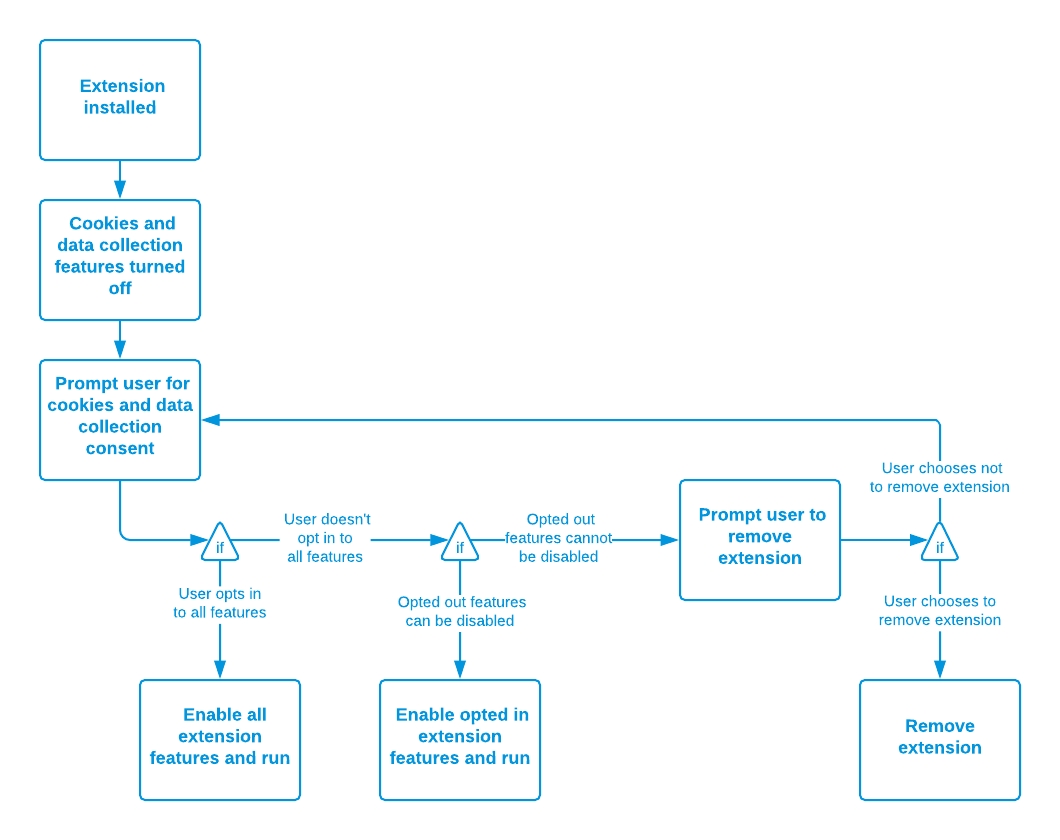
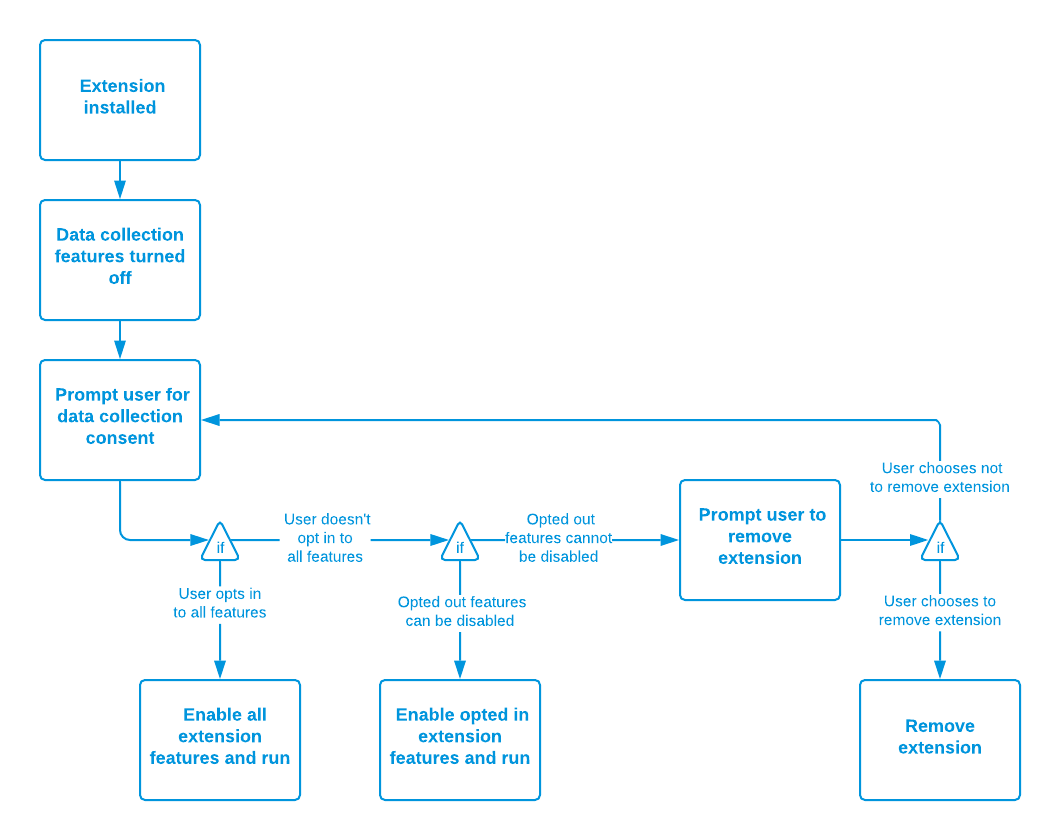
Update best practices page for policy changes (#1139)

Changed region(s): [[0.0311, 0.4333, 0.1868, 0.5571], [0.0311, 0.2476, 0.1868, 0.3714], [0.8717, 0.619, 0.9028, 0.65]]

diff --git a/src/content/documentation/develop/best-practices-for-collecting-user-data-consents.md b/src/content/documentation/develop/best-practices-for-collecting-user-data-consents.md
@@ -6,8 +6,8 @@ topic: Develop
 tags:
   [add-ons, extensions, how-to, privacy, ui, user-interface, ux, webextensions]
 contributors: [rebloor]
-last_updated_by: rebloor
-date: 2019-04-24 14:35:04
+last_updated_by: kewisch
+date: 2021-12-01
 ---
 
 <!-- Page Hero Banner -->
@@ -16,13 +16,13 @@ date: 2019-04-24 14:35:04
 
 # Prompt users for data and privacy consents
 
-If your extension uses cookies or collects user data, it needs to comply with the requirement of the [Data Disclosure, Collection and Management](/documentation/publish/add-on-policies/#data-disclosure-collection-and-management) section of the [Add-on Policies](/documentation/publish/add-on-policies/).
+If your extension collects user data, it needs to comply with the requirement of the [Data Disclosure, Collection and Management](/documentation/publish/add-on-policies/#data-disclosure-collection-and-management) section of the [Add-on Policies](/documentation/publish/add-on-policies/).
 
-A common developer question about these policies is how to translate them into web extension features that can pass the addons.mozilla.org reviews. This how-to is the result of those requests and offers advice on implementing prompts to meet the data collection and add-on policies. This article suggests how you can implement suitable prompts but it doesn’t replace or supersede the policies; you still need to confirm that your extension complies with the policies.
+A common developer question about these policies is how to translate them into browser extension features that are compliant to [Mozilla’s Add-on policies](/documentation/publish/add-on-policies/). This how-to is the result of those requests and offers advice on implementing prompts to meet the data collection and add-on policies. This article suggests how you can implement suitable prompts but it doesn’t replace or supersede the policies; you still need to confirm that your extension complies with the policies.
 
 {% endcapture %}
 {% include modules/page-hero.liquid
-	content: page_hero_banner_content
+    content: page_hero_banner_content
 %}
 
 <!-- END: Page Hero Banner -->
@@ -33,11 +33,13 @@ A common developer question about these policies is how to translate them into w
 
 ## Know your privacy settings
 
-To create the consent flow and consent dialogues your extension needs, you should first answer these questions:
+To create the consent flow and consent dialogs your extension needs, you should first answer these questions:
 
-1. Does my extension use cookies?  If so, you’ll need to get user consent to store cookies.
-2. Does my extension collect technical or interaction data? (If you’re unsure what technical and interaction data is, check out the definition in [Data Disclosure, Collection and Management](/documentation/publish/add-on-policies/#data-disclosure-collection-and-management).) If so, offer the user the opportunity to opt-out of this data collection, although you can always offer opt-in consent if you prefer.
-3. Does my extension collect personally identifying information? If so, get the user’s opt-in consent before collecting any of this data. Remember that personally identifying information includes technical or interaction data tagged with the user’s identity or information that can be used to identify the user, such as an IP address.
+
+1. Does my extension collect technical or interaction data? If so, offer the user the opportunity to opt-out of this data collection, although you can always offer opt-in consent if you prefer.
+2. Does my extension collect personally identifying information? If so, get the user’s opt-in consent before collecting any of this data. Remember that personally identifying information includes technical or interaction data tagged with the user’s identity or information that can be used to identify the user, such as an URL.
+
+If you are unsure if your add-on collects personal data, technical data, or interaction data, check out the definition in [Data Disclosure, Collection and Management](/documentation/publish/add-on-policies/#data-disclosure-collection-and-management).
 
 {% endcapture %}
 {% include modules/column-w-toc.liquid
@@ -53,10 +55,10 @@ To create the consent flow and consent dialogues your extension needs, you shoul
 
 ## Get prepared
 
-Before designing the data collection and use of cookies consents for your extension, you should:
+Before designing the data collection consent for your extension, you should:
 
-- eliminate any unnecessary data collection or cookies.
-- design your extension to offer as much functionality as possible if the user declines the collection of data or the use of cookies.
+- eliminate any unnecessary data collection.
+- design your extension to offer as much functionality as possible if the user declines the collection of data.
 - create a privacy policy.
 
 {% endcapture %}
@@ -73,7 +75,7 @@ Before designing the data collection and use of cookies consents for your extens
 
 ## Create a privacy policy
 
-When your users arrive at your data and privacy consent dialogue, they need to know what they're consenting to and this is where your privacy policy comes in. The [Data Disclosure, Collection and Management](/documentation/publish/add-on-policies/#data-disclosure-collection-and-management) section of the [Add-on Policies](/documentation/publish/add-on-policies/) provides clear guidelines on what the policy should include. If you’re collecting significant quantities of data and making significant use of it, taking legal advice may be prudent. However, your first strategy should be to reduce or eliminate the collection of user data where possible. If your data collection and use is fairly low-level, it’s possible that privacy policy generator—such as [Cooley LLP](https://www.cooleygo.com/documents/privacy-policy/) or [iubenda](http://www.iubenda.com)—may be helpful. You may also want to take a look at [Mozilla's privacy policy](https://www.mozilla.org/privacy/) as a model to follow.
+When your users arrive at your data and privacy consent dialog, they need to know what they're consenting to and this is where your privacy policy comes in. The  [privacy policy](/documentation/publish/add-on-policies/#privacy-policy) section of the [Add-on Policies](/documentation/publish/add-on-policies/) provides clear guidelines on what the policy should include. If you’re collecting significant quantities of data and making significant use of it, taking legal advice may be prudent. However, your first strategy should be to reduce or eliminate the collection of user data where possible. If your data collection and use is fairly low-level, it’s possible that privacy policy generator may be helpful. You may also want to take a look at [Mozilla's privacy policy](https://www.mozilla.org/privacy/) as a model to follow.
 
 {% endcapture %}
 {% include modules/one-column.liquid
@@ -87,23 +89,23 @@ When your users arrive at your data and privacy consent dialogue, they need to k
 
 {% capture content %}
 
-## Prompt after install or on first use
+## Prompt after install
 
 As part of your extension’s onboarding flow, include information about your privacy policy and data collection, and seek any necessary user consents. Any privacy information and settings should be clear and unmissable, separating these details from general information about your extension can help.
 
 For more information on how to implement a post-install page or dialog, see [Best practices for onboarding, upboarding, and offboarding users](/documentation/develop/onboard-upboard-offboard-users/).
 
-As mentioned in the [Add-on policies](/documentation/publish/add-on-policies/), if your extension uses cookies or collects user data in association with features that run in the background, such as ad blocking, you need to make sure the cookies or data collection are not activated until you have user consent.
+As mentioned in the [Add-on policies](/documentation/publish/add-on-policies/), if your extension collects user data in association with features that run in the background, such as ad blocking, you need to make sure the data collection is not activated until you have obtained user consent.
 
 We have talked about how you could let users opt-out of collecting technical and interaction data but must have users opt-in to collecting personally identifying information. Before you design your extension features around your consent requests, it is important to understand how these options affect your design.
 
-Where you provide the user with an opt-in option, the related feature must be turned off by default and only turned on once the user has actively agreed to use that feature.
+Where you provide the user with an opt-in option, the related feature **must be turned off by default** and only turned on once the user has actively agreed to use that feature.
 
-Where you provide the user with an opt-out, option the related features can be turned on by default but must be turned off if the user indicates they want to opt-out.
+Where you provide the user with an opt-out, option the related features **can be turned on by default** but **must be turned off if the user indicates** they want to opt-out.
 
 {% endcapture %}
 {% include modules/one-column.liquid
-  id: "prompt-after-install-or-on-first-use"
+  id: "prompt-after-install"
   content: content
 %}
 
@@ -115,21 +117,21 @@ Where you provide the user with an opt-out, option the related features can be t
 
 ## Determine your consent flow
 
-Before designing your consent dialogs, you should determine the privacy consent flow for your extension, based on the data it collects and whether it uses cookies. Here is an example of a consent flow where an extension collects personally identifying information and technical data and uses cookies:
+Before designing your consent dialogs, you should determine the privacy consent flow for your extension, based on the data it collects. Here is an example of a consent flow where an extension collects personally identifying information and technical data:
 
 ![Illustrating an example of the application flow for handling privacy consents.](/assets/img/documentation/develop/MDN_Privacy_Flags_Flow_Diagram.png)
 
 In this example:
 
-1. Your extension should start up with all cookie and data collection functionality disabled.
-2. Either shortly after installation (see [Best practices for onboarding, upboarding, and offboarding users](/documentation/develop/onboard-upboard-offboard-users/)) or when the user first attempts to uses an extension feature, present them with a consent dialog.
+1. Your extension should start up with all data collection functionality disabled.
+2. Shortly after installation (see [Best practices for onboarding, upboarding, and offboarding users](/documentation/develop/onboard-upboard-offboard-users/)), present them with a consent dialog.
    On this dialog:
 3. The option for collecting personally identifying information must default to disabled so that the user has to actively opt-in.
-4. The options for technical data and cookies may default to enabled, so that the user may choose to opt-out.
-5. If the user opts:
-6. IN to all features, continue with all extension features enabled.
-7. OUT of any feature that cannot be disabled, offer them the option to remove the extension. If they choose not to remove the extension present the consent dialog again.
-8. OUT only from features that can be disabled, disable those features and continue running the extension.
+4. The options for technical data may default to enabled, so that the user may choose to opt-out.
+5. If the user:
+    - opts IN to all features &rarr; continue with all extension features enabled.
+    - opts OUT of any feature that cannot be disabled &rarr; offer them the option to remove the extension. If they choose not to remove the extension present the consent dialog again.
+    - opts OUT only from features that can be disabled &rarr; disable those features and continue running the extension.
 
 {% endcapture %}
 {% include modules/one-column.liquid
@@ -145,18 +147,24 @@ In this example:
 
 ## Your consent dialogs
 
-Once you understand your privacy consent flow, you can add suitable consent dialogues. The following are suggestions on how to present data collection and cookie consent dialogs. Where the mockups include the linked text “our Privacy Policy”, this should go to your extension’s privacy policy page on AMO. If you choose to follow these mockups, remember to modify them appropriately for your extension.
+Once you understand your privacy consent flow, you can add a suitable consent dialog. The following are suggestions on how to present a data collection consent dialog. Where the mockups include the linked text “our Privacy Policy”, this should go to your extension’s privacy policy page on AMO. If you choose to follow these mockups, remember to modify them appropriately for your extension.
 
-- Only Cookies. The option to add cookies can be set as the default response.
-  ![Mockup of a prompt that could be used when an extension requires user consent to use cookies alone.](/assets/img/documentation/develop/privacy_prompt_mockup_cookies_only.png)
-- Only personally identifying information. The default option is not to collect personally identifying information. If you do, the user needs to actively opt-in. Remember to list the data you’re collecting; don’t make the user read your privacy policy to determine what data you are collecting and why.
+### Only personally identifying information
+The default option is not to collect personally identifying information. If you do, the user needs to actively opt-in. Remember to list the data you’re collecting; don’t make the user read your privacy policy to determine what data you are collecting and why.
+
   ![Mockup of a prompt that could be used when an extension requires consent for processing personal data only.](/assets/img/documentation/develop/privacy_prompt_mockup_personal_data.png)
-- Only technical data, (no user identifiers). The option to collect technical data can be set as the default response.
+### Only technical or interaction data
+Data collected does not include user identifiers. The option to collect technical data can be set as the default response.
+
   ![Mockup of a prompt that could be used when an extension requires consent for processing technical data only.](/assets/img/documentation/develop/privacy_prompt_mockup_anonymous_data.png)
-- Combination: Cookies, Personal, and Technical Data.
-  ![Mockup of a prompt that could be used when extension requires consent for cookies and processing personal and technical data.](/assets/img/documentation/develop/privacy_prompt_mockup_all_three.png)
-- The extension won’t work without data or cookies. The default option is your choice.
-  ![Mockup of a prompt that could be used when the user provide insufficient permission for privacy related features so that the extension cannot work. Gives the user the option to uninstall the extension or review their privacy settings.](/assets/img/documentation/develop/privacy_prompt_mockup_remove_extension.png)
+### Combination: Personal and technical data.
+The add-on is requesting both types of data collection. Please ensure the choices are separate.
+
+  ![Mockup of a prompt that could be used when extension requires consent for processing personal and technical data.](/assets/img/documentation/develop/privacy_prompt_mockup_combined.png)
+### Required data collection
+The extension requires personal or technical data collection to provide its functionality, it cannot be used without. The default option is your choice.
+
+  ![Mockup of a prompt that could be used when the user provides insufficient permission for privacy related features so that the extension cannot work. Gives the user the option to uninstall the extension or review their privacy settings.](/assets/img/documentation/develop/privacy_prompt_mockup_remove_extension.png)
 
 {% endcapture %}
 {% include modules/one-column.liquid
@@ -166,5 +174,3 @@ Once you understand your privacy consent flow, you can add suitable consent dial
 %}
 
 <!-- END: Single Column Body Module -->
-
-
